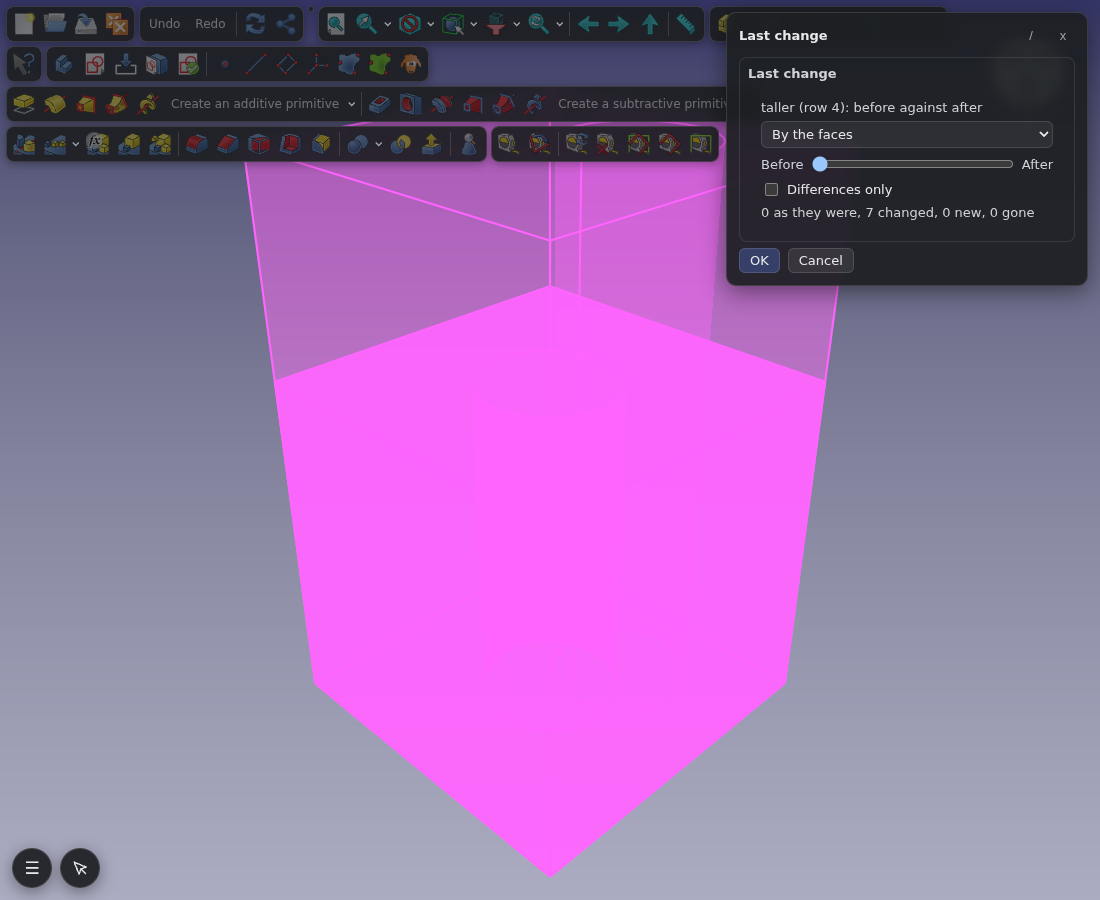
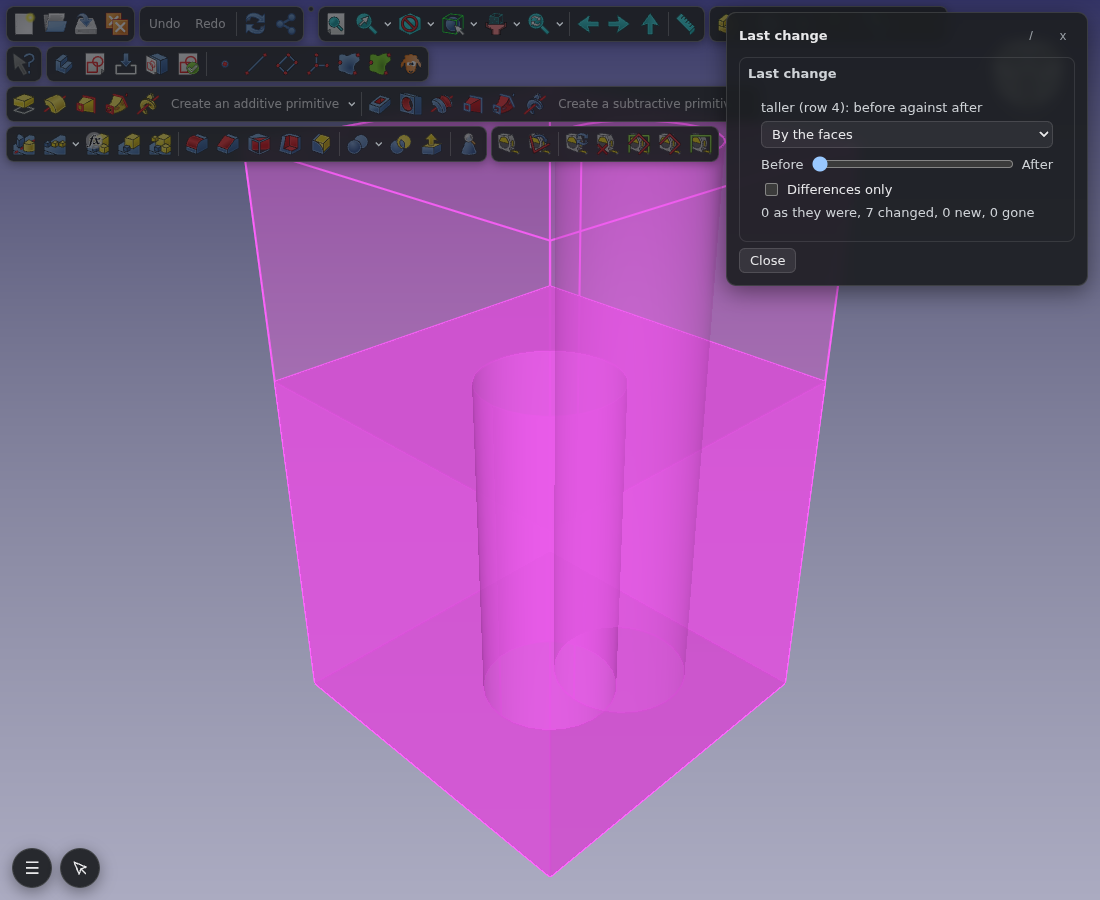
Gui: a task panel in the browser has the buttons the host's has
The page drew an OK and a Cancel under every task panel, whatever the
task's box had: the last change of an object, which has Close alone, was
left by an OK. The box's buttons are mirrored already, each with its
standard flag, so the page draws those: OK asks the root to accept, Cancel
and Close to reject -- the path it had -- and any other is clicked by its
flag. A client that may not edit can still press the two that leave. A box
that came with no buttons keeps the OK and Cancel.

Claude-Session: https://claude.ai/code/session_01JMUBeWJysnNX6WPy6aJkex

Changed region(s): [[0.2473, 0.1556, 0.7727, 0.9644]]

diff --git a/src/Gui/Renderer/web/src/widgets/panel.tsx b/src/Gui/Renderer/web/src/widgets/panel.tsx
@@ -32,7 +32,8 @@ import { iconKind, localeTag, mouseArgs, parseLocaleNumber, pictureAt, wheelArgs
   from './images.ts';
 import { CHECK_OFF, CHECK_ON, CHOOSER_DIRECTORY, ITEM_ENABLED, acceptFromFilter,
          cssColor, dialogClickOp, dialogRejectOp, fileSelectedOp, isDarkColor,
-         isDialogRoot, itemEditOp, itemExpandOp, selectionWrite } from './protocol.ts';
+         isDialogRoot, itemEditOp, itemExpandOp, panelButtonOp, selectionWrite,
+         BUTTON_OK } from './protocol.ts';
 import type { ItemCell, ItemRow, WidgetModel } from './protocol.ts';
 
 const POS_KEY = 'fcviewer.taskpanel.pos';
@@ -572,8 +573,10 @@ export function TaskPanelCard(props: {
         // built with -- because the flag each one carries IS the answer.
         //
         // The TASK PANEL's box keeps W1's accept/reject on the root: that
-        // is the path the W1 and W2 screen proofs exercise, and nothing in
-        // W4 needs it changed.
+        // is the path the W1 and W2 screen proofs exercise. Its buttons
+        // are the host's too, each asking what its flag means
+        // (panelButtonOp): a task with Close alone shows Close. A box
+        // that came with no buttons has the OK and Cancel of W1.
         const owner = () => ownerRoot(w);
         const buttons = () => planLayout(lay(w)).items
           .map((it) => (it.kind === 'widget' && it.id ? model(it.id) : undefined))
@@ -582,16 +585,41 @@ export function TaskPanelCard(props: {
           <Show when={isDialogRoot(owner())}
                 fallback={
                   <div class="fc-panel-buttons">
-                    <button class="fc-panel-btn fc-panel-ok" disabled={props.viewOnly()}
-                            onClick={() => void client?.custom(rootId() ?? w.id,
-                                                               { event: 'accept' })}>
-                      OK
-                    </button>
-                    <button class="fc-panel-btn"
-                            onClick={() => void client?.custom(rootId() ?? w.id,
-                                                               { event: 'reject' })}>
-                      Cancel
-                    </button>
+                    <Show when={buttons().length}
+                          fallback={<>
+                            <button class="fc-panel-btn fc-panel-ok"
+                                    disabled={props.viewOnly()}
+                                    onClick={() => void client?.custom(rootId() ?? w.id,
+                                                                       { event: 'accept' })}>
+                              OK
+                            </button>
+                            <button class="fc-panel-btn"
+                                    onClick={() => void client?.custom(rootId() ?? w.id,
+                                                                       { event: 'reject' })}>
+                              Cancel
+                            </button>
+                          </>}>
+                      <For each={buttons()}>
+                        {(b: WidgetModel) => {
+                          const asked = () => panelButtonOp(num(b, 'standardButton'));
+                          return (
+                            <button class="fc-panel-btn"
+                                    classList={{ 'fc-panel-ok':
+                                      num(b, 'standardButton') === BUTTON_OK }}
+                                    disabled={(props.viewOnly() && !asked().leaves)
+                                              || st(b).enabled === false}
+                                    title={str(b, 'toolTip') || undefined}
+                                    onClick={() => {
+                                      const op = asked().op;
+                                      void client?.custom(op ? rootId() ?? w.id : b.id,
+                                                          op ?? { event: 'click' });
+                                    }}>
+                              {qtLabel(str(b, 'text'))}
+                            </button>
+                          );
+                        }}
+                      </For>
+                    </Show>
                   </div>
                 }>
             <div class="fc-panel-buttons">

diff --git a/src/Gui/Renderer/web/src/widgets/protocol.ts b/src/Gui/Renderer/web/src/widgets/protocol.ts
@@ -500,6 +500,37 @@ export function dialogClickOp(standardButton: number): { event: string; args: nu
   return { event: 'clicked', args: [standardButton] };
 }
 
+/// QDialogButtonBox::StandardButton, the three a task panel's box answers
+/// by what they mean and not by which button they are.
+export const BUTTON_OK = 0x400;
+export const BUTTON_CLOSE = 0x200000;
+export const BUTTON_CANCEL = 0x400000;
+
+/// What a click on one button of the TASK PANEL's box asks of the panel
+/// root. The box is drawn with the buttons the host's has -- a task with
+/// Close alone shows Close, not an OK and a Cancel it never had (docs/
+/// TransactionLog.md sec 32.20) -- and each one's standard flag says what
+/// it asks:
+///
+///  - OK is the root's `accept` and Cancel and Close its `reject`: W1's
+///    path, where the host clicks whichever button of its box has that
+///    role, or asks the task itself when the box has none;
+///  - any other standard button is clicked by its flag (`onPanelRequest`,
+///    Gui/Fw/FwPanelMirror.cpp), Apply and Reset among them;
+///  - a button with no flag is nothing the root knows: `undefined`, and
+///    the button's own click is the op.
+///
+/// `leaves` is true of the two a client with no right to edit may still
+/// press: they change nothing.
+export function panelButtonOp(standardButton: number):
+    { op: { event: string; args?: number[] } | undefined; leaves: boolean } {
+  if (standardButton === BUTTON_OK) return { op: { event: 'accept' }, leaves: false };
+  if (standardButton === BUTTON_CANCEL || standardButton === BUTTON_CLOSE)
+    return { op: { event: 'reject' }, leaves: true };
+  if (standardButton) return { op: dialogClickOp(standardButton), leaves: false };
+  return { op: undefined, leaves: false };
+}
+
 /// Escape on a dialog, which is `QDialog::reject()` on the bound view --
 /// Qt's own answer for a box dismissed rather than answered. A box with an
 /// escape button resolves it to that button; one without returns 0, the

diff --git a/src/Gui/Renderer/web/src/widgets/gate.ts b/src/Gui/Renderer/web/src/widgets/gate.ts
@@ -26,7 +26,8 @@ import { fileURLToPath } from 'node:url';
 import { CHECK_ON, CHOOSER_DIRECTORY, CHOOSER_FILE, WidgetStore, acceptFromFilter,
          cssColor, dialogClickOp, dialogRejectOp, fileSelectedOp, isDarkColor,
          isDialogRoot, isPanelMirrorId, itemClickOp, itemEditOp, itemExpandOp,
-         layoutRefs, refId, selectionWrite } from './protocol.ts';
+         layoutRefs, panelButtonOp, refId, selectionWrite,
+         BUTTON_CANCEL, BUTTON_CLOSE, BUTTON_OK } from './protocol.ts';
 import type { Frame } from './protocol.ts';
 import { isKnownLayoutClass, planLayout } from './layout.ts';
 import type { LayoutPlan } from './layout.ts';
@@ -251,6 +252,20 @@ function checkDialogs(): void {
         JSON.stringify(dialogClickOp(YES)) === '{"event":"clicked","args":[16384]}',
         JSON.stringify(dialogClickOp(YES)));
   check(t, 'Escape rejects', JSON.stringify(dialogRejectOp()) === '{"event":"reject"}');
+
+  // a TASK PANEL's box: its own buttons, each asking what its flag means
+  const asks = (flag: number): string => JSON.stringify(panelButtonOp(flag));
+  check(t, "a task's OK accepts",
+        asks(BUTTON_OK) === '{"op":{"event":"accept"},"leaves":false}', asks(BUTTON_OK));
+  check(t, "a task's Close leaves, and a viewer may press it",
+        asks(BUTTON_CLOSE) === '{"op":{"event":"reject"},"leaves":true}', asks(BUTTON_CLOSE));
+  check(t, "a task's Cancel leaves",
+        asks(BUTTON_CANCEL) === '{"op":{"event":"reject"},"leaves":true}', asks(BUTTON_CANCEL));
+  check(t, "a task's Apply is clicked by its flag",
+        asks(0x2000000) === '{"op":{"event":"clicked","args":[33554432]},"leaves":false}',
+        asks(0x2000000));
+  check(t, 'a button with no flag is its own click',
+        panelButtonOp(0).op === undefined && !panelButtonOp(0).leaves);
 
   // and what the close leaves behind
   const after = upto(closeAt + 1);
